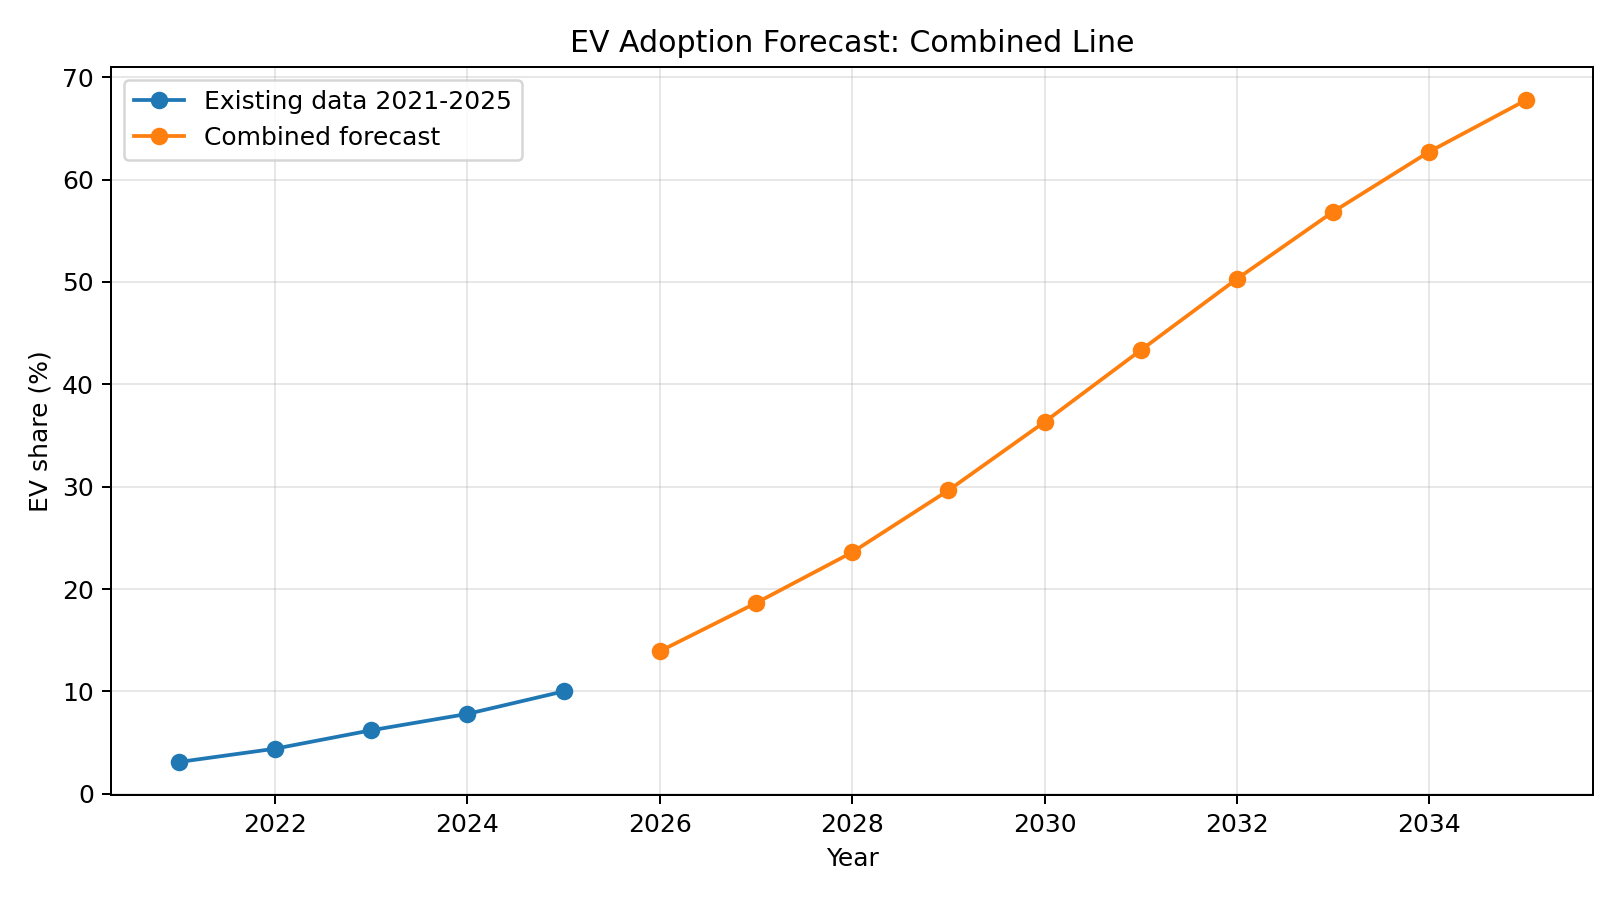
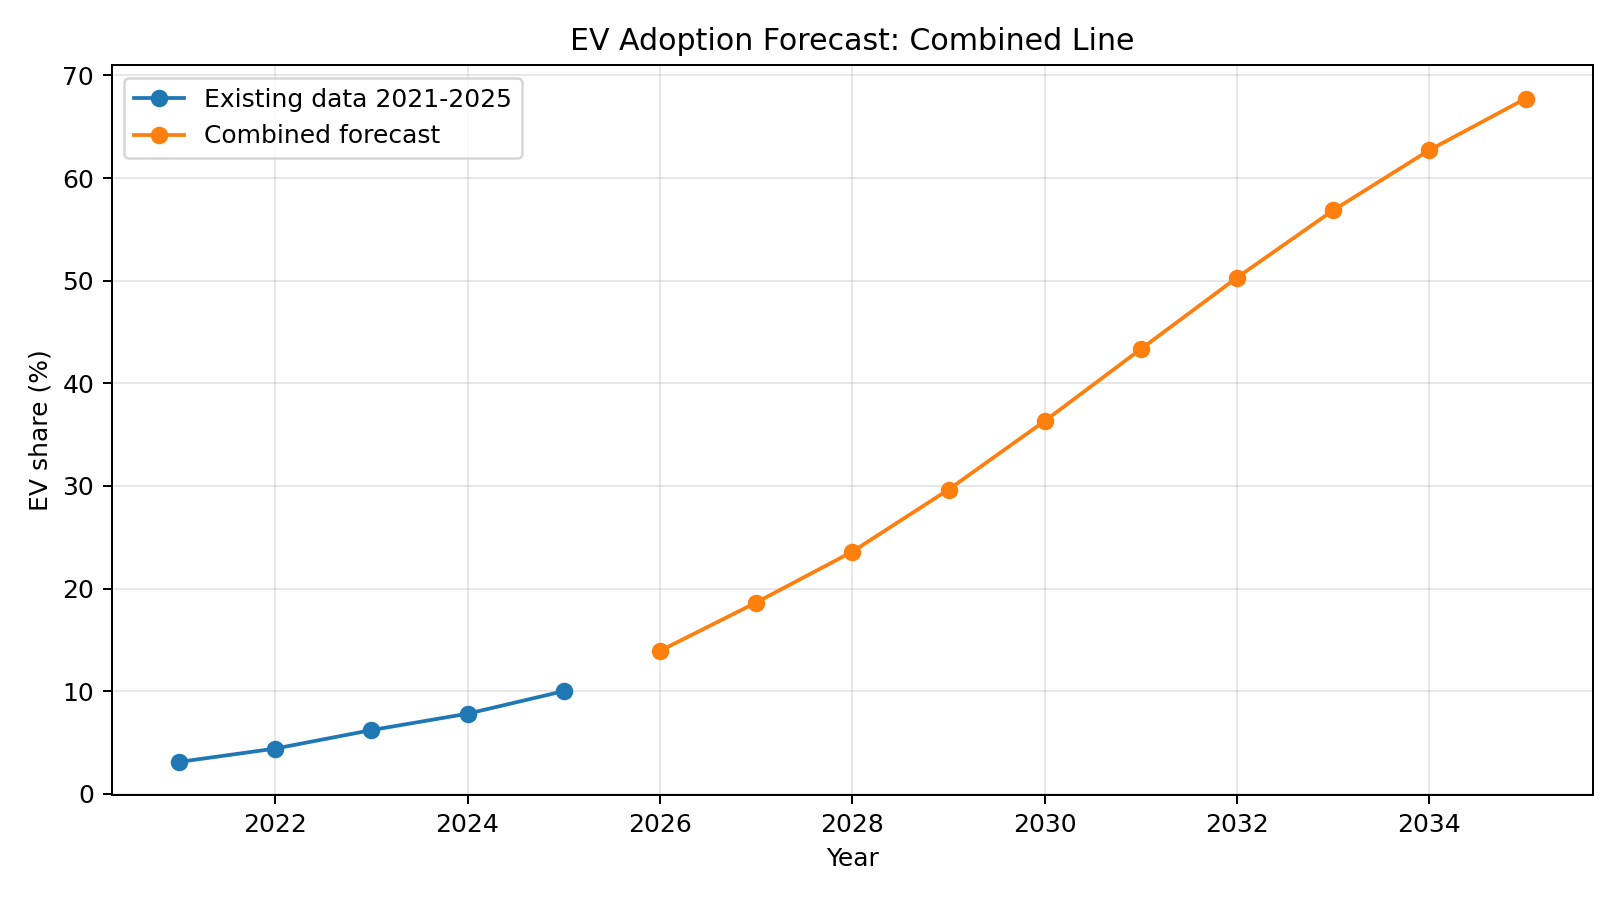
feat: update analysis scripts

diff --git a/scripts/Task 1/congestion_filter.py b/scripts/Task 1/congestion_filter.py
@@ -4,17 +4,12 @@ import pandas as pd
 import regex as re
 
 
-ROOT = Path(__file__).resolve().parents[1]
-
-
-def p(rel_windows_path: str) -> Path:
-    """This is to make sure the backlashes works on windows and linux OS as well"""
-    return ROOT.joinpath(*rel_windows_path.split("\\"))
+ROOT = Path(__file__).resolve().parents[2]
 
 # Reading the data from the csv file and converting to a Pandas dataframe
 # There were some errors after row 347174, but none of these rows contained data about
 # Eindhoven, so these 'bad lines' are skipped
-congestion_data = pd.read_csv(p(r"other data\grid\congestie_pc6.csv"), on_bad_lines='skip', sep=';')
+congestion_data = pd.read_csv(ROOT / "other data"/"grid"/"congestie_pc6.csv", on_bad_lines='skip', sep=';')
 # Using a regular expression (regex) to find all Eindhoven postcodes and save them in a list
 # (used https://postcodebijadres.nl/eindhoven to find the postcodes)
 ehv_postcodes_list = re.findall(r'56(?:0[0-6]|1[1-7]|2[1-9]|3[1-3]|4[1-7]|5[1-8])[A-Z]{2}',
@@ -34,4 +29,4 @@ ehv_congested_rows = ehv_congested_rows.reset_index()
 ehv_congested_rows.columns = ['old_index','postcode','consumption','generation',
                               'supply_area_id','supply_area_name','tennet_id','RNB_postcode']
 # Exporting the filtered dataset to a csv file
-ehv_congested_rows.to_csv(p(r"other data\grid\ehv_congestion.csv"))
+ehv_congested_rows.to_csv(ROOT / "processed data" / "grid" / "ehv_congestion.csv")

diff --git a/scripts/Task 2/simulation.py b/scripts/Task 2/simulation.py
@@ -30,7 +30,7 @@ EXISTING_CHARGERS_PATH = (
 HEATMAP_DENSITY_PATH = ROOT / "processed data" / "gpx_heatmap_density.npz"
 EV_DEMAND_HEATMAP_PATH = ROOT / "processed data" / "heatmap4_density.npz"
 WALKING_NETWORK_PATH = ROOT / "processed data" / "spatial" / "walking_traces.geojson"
-OUTPUT_DIR = ROOT / "output" / "baseline"
+OUTPUT_DIR = ROOT / "processed data" / "output" / "baseline"
 
 RD_TO_WGS84 = Transformer.from_crs("EPSG:28992", "EPSG:4326", always_xy=True)
 RD_TO_WEB_MERCATOR = Transformer.from_crs("EPSG:28992", "EPSG:3857", always_xy=True)
@@ -923,7 +923,7 @@ def main() -> None:
         f"{len(walking_network.network_nodes)} connected nodes"
     )
 
-    baseline_output_dir = ROOT / "output" / "baseline"
+    baseline_output_dir = ROOT / "processed data" / "output" / "baseline"
     baseline_output_dir.mkdir(parents=True, exist_ok=True)
 
     results = []

diff --git a/scripts/analysis/calculate accessibility indicators by walking traces.py b/scripts/analysis/calculate accessibility indicators by walking traces.py
@@ -6,13 +6,13 @@ from pathlib import Path
 from collections import defaultdict, deque
 
 
-ROOT = Path(__file__).resolve().parents[1]
-DATA_DIR = ROOT / "other data"
+ROOT = Path(__file__).resolve().parents[2]
+DATA_DIR = ROOT / "processed data"
 SPATIAL_DATA_DIR = DATA_DIR / "spatial"
 WALKING_TRACES_FILE = SPATIAL_DATA_DIR / "walking_traces.geojson"
 if not WALKING_TRACES_FILE.exists():
     WALKING_TRACES_FILE = DATA_DIR / "walking_traces.geojson"
-CHARGING_POINTS_FILE = DATA_DIR / "charging_points_strijp_s.csv"
+CHARGING_POINTS_FILE = DATA_DIR / "charging points" / "existing_charging_points_strijp_s.csv"
 
 #These just demand ponints that I choose, the location from google maps
 DEMAND_POINTS = [

diff --git a/scripts/Task 3/future_ehv_ev.py b/scripts/Task 3/future_ehv_ev.py
@@ -4,7 +4,7 @@ import numpy as np
 import matplotlib.pyplot as plt
 
 # Import the data on percentages of EVs
-data = pd.read_csv('other data\percentage_EVs_EHV.csv',sep=';',index_col=False)[['Periode', 'Waarde']].iloc[:5]
+data = pd.read_csv('processed data/percentage_EVs_EHV.csv',sep=';',index_col=False)[['Periode', 'Waarde']].iloc[:5]
 # Convert the years to datetime format
 data['Date'] = data['Periode'].apply(lambda x: pd.to_datetime(str(x) + '-1-1'))
 # Convert the datetimes to days for regression

diff --git a/scripts/analysis/calculate grid congestion by neighbourhood.py b/scripts/analysis/calculate grid congestion by neighbourhood.py
@@ -68,9 +68,9 @@ from collections import Counter, defaultdict
 # unknown:
 #     no postcode or grid match
 
-ROOT = Path(__file__).resolve().parents[1]
-TASK_DIR = Path(__file__).resolve().parent
-OTHER_DATA_DIR = ROOT / "other data"
+ROOT = Path(__file__).resolve().parents[2]
+TASK_DIR = Path(__file__).resolve().parents[2] / "processed data" / "grid"
+OTHER_DATA_DIR = ROOT / "processed data"
 SPATIAL_DATA_DIR = OTHER_DATA_DIR / "spatial"
 DATASET_DIR = ROOT / "Data_Set"
 

diff --git a/scripts/analysis/ev_adoption_forecast.py b/scripts/analysis/ev_adoption_forecast.py
@@ -11,7 +11,7 @@ from scipy.optimize import curve_fit
 def find_project_root(start: Path) -> Path:
     """Find the project folder from this script location."""
     for folder in [start, *start.parents]:
-        if (folder / "Jessie python files").exists():
+        if (folder / "Python files").exists():
             return folder
     raise FileNotFoundError("Could not find the project root folder.")
 
